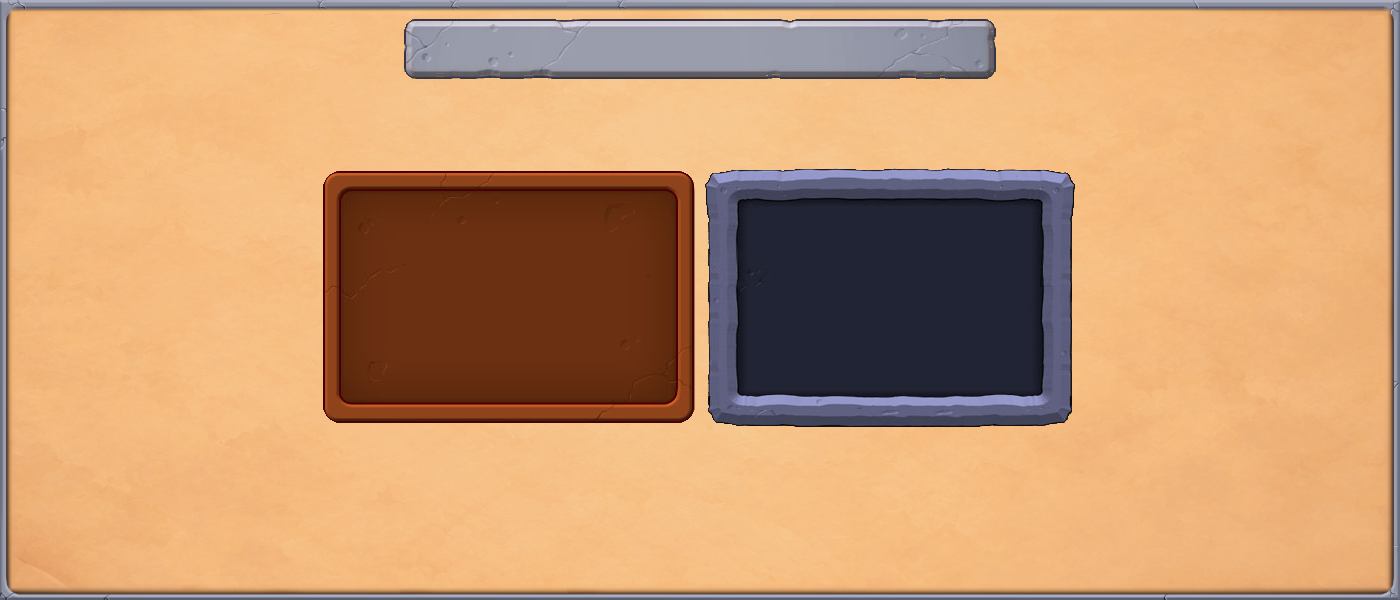
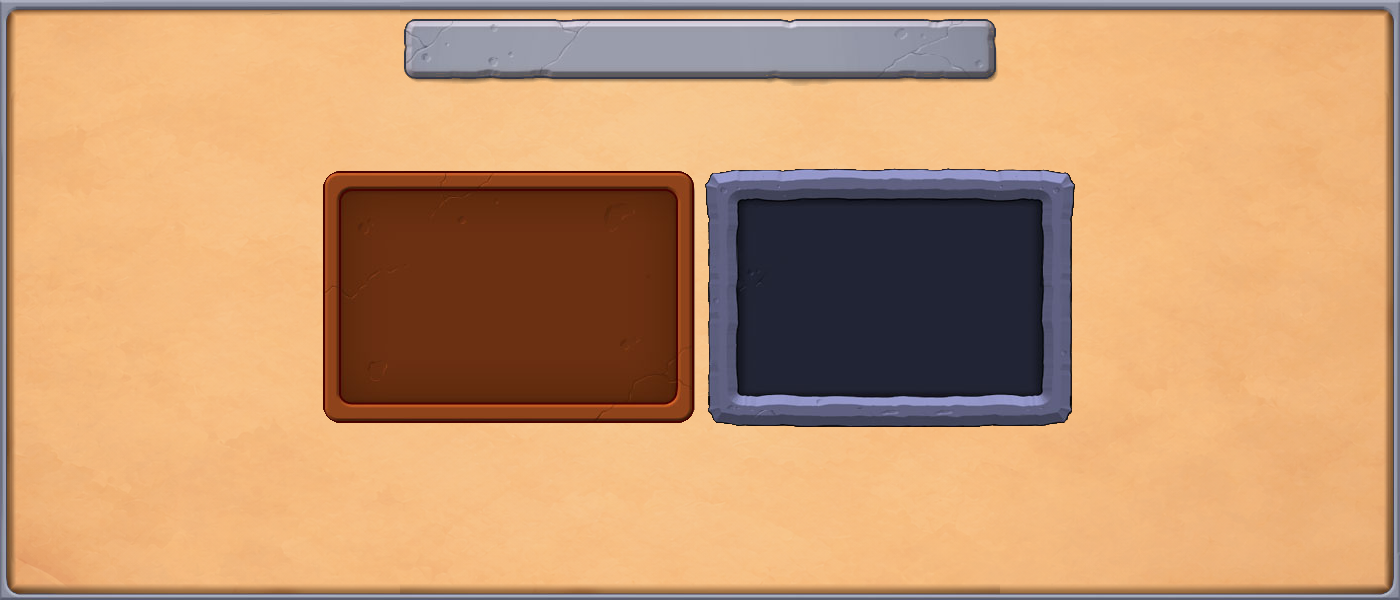
Restore original Almanac frames and plaque shadows for v4.0.2

Changed region(s): [[0.0, 0.0, 1.0, 0.99], [0.3071, 0.12, 0.7064, 0.15]]

diff --git a/pvzPerf/LawnApp.cpp b/pvzPerf/LawnApp.cpp
@@ -165,7 +165,7 @@ LawnApp::LawnApp()
 	mDebugKeysEnabled = false;
 	mFullCompanyName = "PopCap Games";
 	mProdName = "PopCap\\PlantsVsZombies";
-    mProductVersion = "4.0.1";
+    mProductVersion = "4.0.2";
 	std::string aTitleName = "pvz_perf";
 #ifdef _DEBUG
 	aTitleName += " BETA ";

diff --git a/assets/almanac-art.md b/assets/almanac-art.md
@@ -1,122 +1,26 @@
-# Flat shared-paper Almanac
+# Almanac background artwork
 
-The Almanac uses the same complete neutral paper and outer stone frame as
-Survival, Puzzle and Minigames. This replaces the earlier composition that
-retained a large rectangle of original Almanac paper and matched added margins
-to its vignette. There are no added side shadows, inner paper outlines,
-vignette strips, or separately tinted margin rectangles.
+The three Almanac pages keep their 1400x600 paper canvases and original
+800x600 content coordinates. Plant pages use the original wooden outer frame;
+Zombie and Index pages use their original Almanac stone frames, rather than
+the shared Challenge menu frame.
 
-## Runtime Sources
+The original 1073 backgrounds are retained under
+`assets/source-art/original/almanac/`. Native corner/side pixels and horizontal
+rail crops restore each page's own frame without scaling. The outer eight
+pixels are copied exactly; the inner eight transition into the existing paper.
+The native title plaques retain their previous coordinates and artwork, with
+their surrounding shadow darkening restored offline. The old paper's inner
+rectangular outline is not copied into the flat paper.
 
-| Source | Dimensions | Format |
-| --- | --- | --- |
-| `runtime/images/Almanac_IndexBack.png` | 1400 x 600 | Opaque RGB PNG |
-| `runtime/images/Almanac_PlantBack.png` | 1400 x 600 | Opaque RGB PNG |
-| `runtime/images/Almanac_ZombieBack.png` | 1400 x 600 | Opaque RGB PNG |
+Runtime inputs remain the three opaque RGB PNGs under
+`assets/source-art/ai/runtime/images/Almanac_{Index,Plant,Zombie}Back.png`.
+Their resource names and logical dimensions do not change. Native background
+slicing keeps 16-pixel borders at the visible edges while centering the
+800-wide content, including asymmetric battle viewports.
 
-These replace the old 800 x 600 JPEGs. The logical resource IDs and
-extensionless paths remain unchanged. Do not retain both JPEG and PNG
-versions: image loading prefers JPEG. This change does not rebuild resources.
-
-## Common Base
-
-Each page starts with the entire, unmodified
-`PlantsVsZombies/ReferenceResearch/Widescreen/paper-pages-1400/common-menu-paper-flat-1400.png`,
-1400 x 600 RGB. SHA-256:
[1 lines of base64/hex data omitted]
-
-The common base is a native 1400 x 600 crop, `(136,170)-(1536,770)`, of the
-preserved 1672 x 941 `source-art/ai/common-menu-paper-hires-v1.png`.
-The crop excludes the generated plaque and frame without resizing the paper.
-Its RGB offsets match unobstructed original Challenge paper; the final sample
-mean is `(246.48,194.47,136.85)`, compared with original
-`(246.28,194.81,137.09)`. The retained native stone comes from the previously
-approved 1066 x 600 shared bordered base: horizontal rails are extended by
-native crops, the outer eight pixels remain opaque, and the next eight blend
-into paper. There are no separately shaded or tinted margin panels.
-Challenge and all three Almanac pages use this exact base. The Almanac neither
-copies the Challenge title plaque nor changes any raw AI master.
-
-## Retained Functional Art
-
-Only independently masked UI objects are extracted from original JPEGs using
-`git show HEAD:assets/runtime/images/Almanac_<Page>Back.jpg`.
-Their world coordinates and native pixel dimensions remain unchanged.
-All objects are placed at canvas x = world x + 300. Their transparent layers
-are moved 167 pixels from the preceding 1066-wide canvas, without resizing
-or modifying their native RGB/alpha pixels.
-
-| Page | Original world crop, exclusive right/bottom | Retained object |
-| --- | --- | --- |
-| Index | `(100,15)-(702,84)` | Native stone title plaque |
-| Index | `(20,168)-(399,426)` | Wood plant display panel |
-| Index | `(400,165)-(781,434)` | Stone zombie display panel |
-| Plant | `(59,12)-(733,70)` | Native wood title plaque |
-| Zombie | `(32,17)-(770,75)` | Native stone title plaque |
-
-Stone masks select neutral/blue stone and dark outlines while rejecting warm
-paper. Enclosed dark details remain opaque. Wood masks select the wood's
-lower green values within the actual rounded object silhouette. Crop
-rectangles are not pasted as opaque paper patches. Real panel textures and
-their intrinsic bevels remain; no new shadow or outline is added.
-
-Plant slot guides are transplanted as ink, not paper. A 50 x 70 alpha template
-is recovered from the first unobstructed original slot at `(26,92)`.
-Only the two-pixel border is sampled; adjacent paper estimates recover the
-original dash opacity over brown ink. This template is placed in the existing
-8-column, 6-row arrangement, with 52 x 78 spacing. All slot interiors are
-transparent so the same common paper remains visible underneath.
-
-Old full-page paper, the inner rounded paper boundary, edge vignettes,
-background shadows and decorative plant/zombie watermarks are not imported.
-The separate runtime cards, grounds, windows, buttons, portraits, labels,
-scrollbars and their hit regions are unchanged.
-
-Original JPEG SHA-256:
-
-| Original | SHA-256 |
-| --- | --- |
[3 lines of base64/hex data omitted]
-
-## Coordinates And Verification
-
-`DrawAlmanacBackground` derives art padding from `(imageWidth - BOARD_WIDTH)/2`,
-which is 300 for the current 1400-wide source. Native 16-pixel edge strips
-follow the actual viewport bounds. The center uses source x =
-`artPadding + localBoundsLeft + 16`, width = `bounds.mWidth - 32`,
-where `localBoundsLeft = bounds.mX - dialog.mX`.
-At viewport width 800 the source interval is `[316,1084)`; at width 1400
-it is `[16,1384)`. Odd widths retain the extra pixel on the right.
-
-The dialog's local layout and input remain 800 x 600. Its X origin is
-`bounds.mX + (bounds.mWidth - 800)/2`, computed from the actual bounds rather
-than assuming symmetric margins. For battle bounds `(-220,0,1400,600)`,
-the local page origin is world x=80 and the background local left is -300.
-The title, panels and input therefore remain centered in the visible viewport,
-and source crops do not exceed the 1400-wide image.
-Global hover coordinates subtract the dialog origin; widget-dispatched local
-clicks and scrollbar coordinates retain their original geometry. If a resize
-changes the origin during Draw or MouseDown, that event's graphics/local X
-is adjusted by the origin delta. The Index button stays 32 pixels from the
-actual visible left edge, and the close button stays 35 pixels from the
-actual visible right edge. Both positions refresh together before button
-updates, drawing and clicks, retaining their original 800-wide margins.
-
-Outside the actual UI object masks, each output is pixel-identical to the
-complete common base. The outer frame is identical across all three pages.
-Checks cover all integer viewport widths from 800 through 1400, source crop
-bounds, full opaque coverage, frame pixels, unchanged title/panel coordinates,
-and equality to the common paper outside the functional overlays. Almanac
-checks also cover the battle viewport left clamped to -220, including
-hover/click round trips and resize origin changes: 4,207 page/viewport cases.
-
-Helper scripts, isolated transparent parts, masks, pixel reports and previews
-are kept outside the source repository under
-`PlantsVsZombies/ReferenceResearch/Widescreen/paper-pages-1400/`.
-The compositor is `ReferenceResearch/Widescreen/compose-paper-pages-1400.py`.
-The retained functional masks originated in `almanac-flat/`.
-No build, resource build, game launch or Git commit is part of this revision.
+All composition is baked into the resource package. No runtime shadow pass,
+new branch, font resource or image is added to the drawing path. Unrelated
+paper, plant slots, panels, button positions and input routing remain unchanged.
 
 Artwork retains its original ownership and licensing terms.

diff --git a/README.md b/README.md
@@ -2,7 +2,7 @@
 
 基于 [PvZ-Portable](https://github.com/wszqkzqk/PvZ-Portable) 修改，继续优化《植物大战僵尸》的 CPU 热路径、资源装载、图形提交和跨平台输入。游戏行为以零售 1073 为主要核对依据。
 
-**当前发行版：[v4.0.1](https://github.com/YuHao2006/pvz_perf/releases/tag/v4.0.1)，包含四个原生包和网页版。**
+**当前发行版：[v4.0.2](https://github.com/YuHao2006/pvz_perf/releases/tag/v4.0.2)，包含四个原生包和网页版。**
 
 版本号采用三段规则：**第一个数表示破坏性更新，第二个数表示功能更新，第三个数表示 bug 修复**。兼容性以各版发行说明为准。
 
@@ -20,7 +20,7 @@
 
 发行附件同时提供完美用户档、统一无尽基准、图集布局缓存和校验清单。完美档包含坚果包扎术。不要用个人进度覆盖仓库的性能基准。
 
-**v4.0.0 是破坏性更新，当前存档格式为 DAT64 v5.1 / schema `0x10747`。** 原生版与网页版通过独立的 DataFixerUpper（DFU）模块自动升级历史 DAT64 v4，并修复已确认的旧植物攻击动画卡死。正确的 v5.1 直接读取，不执行修复扫描。原版 DAT 可用附带转换器手动转换；未发布的 v3、v5.0 中间格式不支持。程序、DFU、shader、PAK64 必须成套更新。见[存档转换](docs/DAT-DAT64-CONVERSION.md)与[发行说明](docs/releases/v4.0.1.md)。
+**v4.0.0 是破坏性更新，当前存档格式为 DAT64 v5.1 / schema `0x10747`。** 原生版与网页版通过独立的 DataFixerUpper（DFU）模块自动升级历史 DAT64 v4，并修复已确认的旧植物攻击动画卡死。正确的 v5.1 直接读取，不执行修复扫描。原版 DAT 可用附带转换器手动转换；未发布的 v3、v5.0 中间格式不支持。程序、DFU、shader、PAK64 必须成套更新。见[存档转换](docs/DAT-DAT64-CONVERSION.md)与[发行说明](docs/releases/v4.0.2.md)。
 
 ## 设置与存档
 

diff --git a/docs/releases/v4.0.2.md b/docs/releases/v4.0.2.md
@@ -1,0 +1,7 @@
+# v4.0.2
+
+修复图鉴背景与原版 1073 不一致的问题：植物图鉴恢复木质外框，僵尸图鉴恢复其原有的石质外框，三页上方牌匾恢复投影。保留宽屏纸面、原有图鉴排版与按钮坐标。
+
+修复在离线资源中完成，不增加游戏运行时分支、阴影绘制或滤镜开销。此次资源包有更新，程序与同包的 main.pak64 配套使用。没有纳入高清分支的素材或运行时改动。
+
+存档格式仍为 DAT64 v5.1 / schema `0x10747`，兼容 v4.0.0、v4.0.1；旧 DAT64 v4 继续通过独立 DFU 升级。用户进度、关卡逻辑及云存档范围不变。**网页关卡 DAT64 不上传云端，仍需自行导出备份。**
